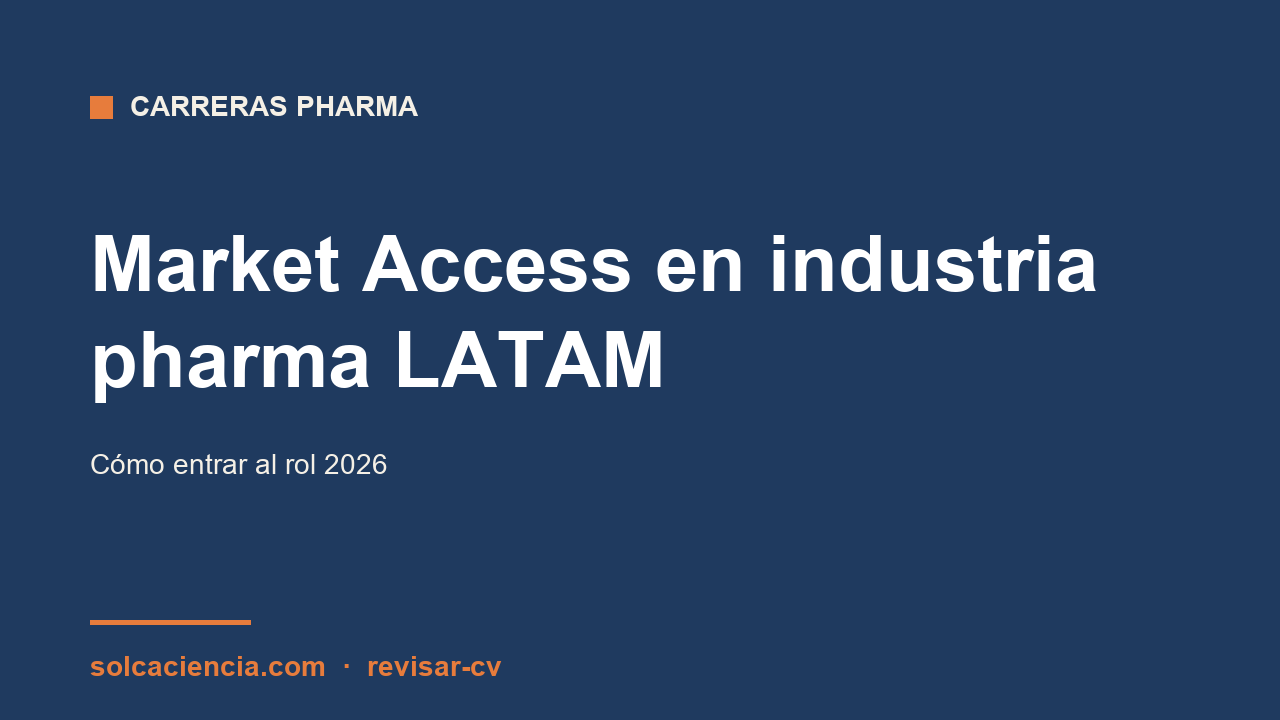
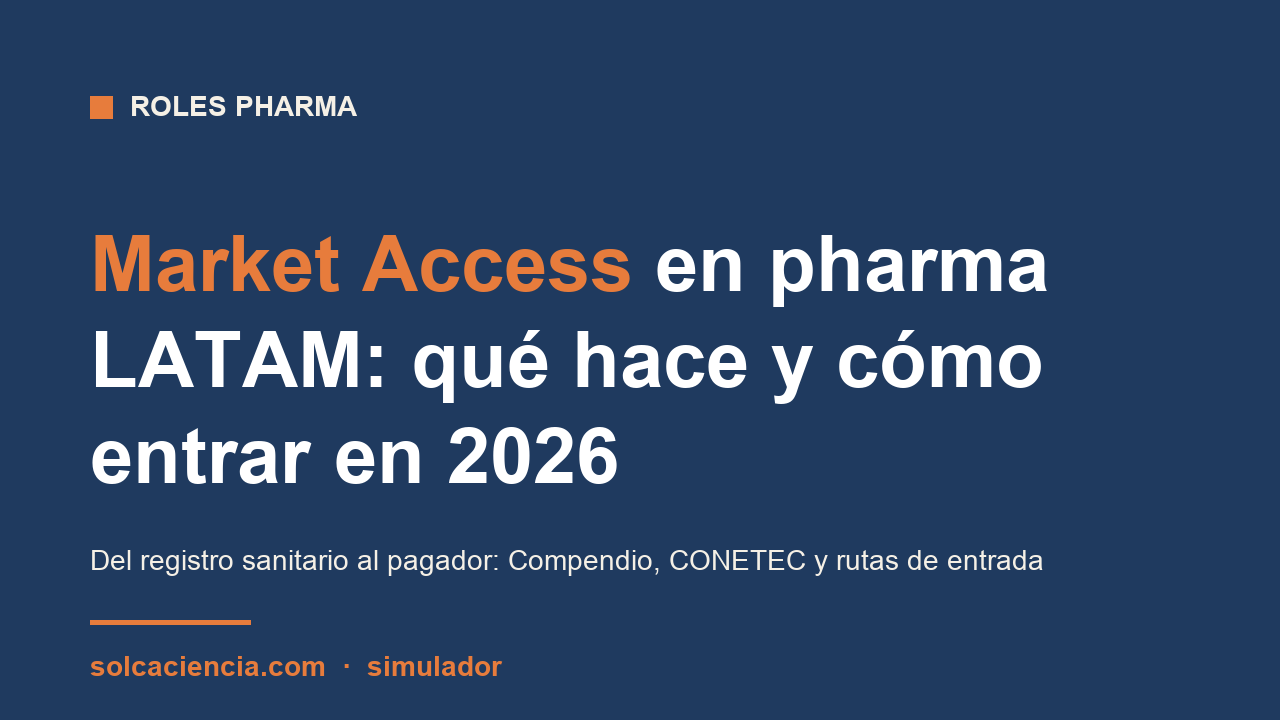
fix(blog): rewrite market access LATAM anclado a GSC, FAQ schema y CTA simulador

diff --git a/src/content/blog/market-access-industria-farmaceutica-latam-como-entrar.md b/src/content/blog/market-access-industria-farmaceutica-latam-como-entrar.md
@@ -1,85 +1,139 @@
 ---
-title: "Market Access en industria farmacéutica LATAM: cómo entrar 2026"
-description: "Qué hace un Market Access en pharma industrial LATAM y cómo entrar al rol desde perfiles clínicos, comerciales o de investigación. Ruta operativa 2026."
+title: "Market Access en pharma LATAM: qué hace y cómo entrar en 2026"
+description: "Market Access en LATAM: qué piden el Compendio en México y la CONETEC en Argentina, desde qué puestos se llega y cómo preparar la entrevista."
 pubDate: 2026-07-13
+updatedDate: 2026-10-05
 heroImage: "/blog/market-access-industria-farmaceutica-latam-como-entrar.png"
 category: "carreras-pharma"
-tags: ["Market Access", "Industria Farmacéutica", "LATAM", "Pagadores", "Carrera Pharma", "KAM Access"]
+tags: ["Market Access", "Industria Farmacéutica", "LATAM", "Evaluación de Tecnologías Sanitarias", "Pagadores", "Entrevistas"]
 series: "roles-pharma"
 seriesIndex: 5
-readingMinutes: 8
+readingMinutes: 7
+cta: "simulador"
 ---
 
-Market Access en industria farmacéutica LATAM es el rol responsable de conseguir que los medicamentos aprobados por la autoridad regulatoria realmente lleguen a los pacientes vía sistemas de salud públicos, aseguradoras privadas y hospitales. Sin acceso conseguido, un registro sanitario aprobado no genera venta. El rol combina componente científico (dossier de valor), componente financiero (pricing, budget impact) y componente político (relación con pagadores institucionales). Esta guía cubre qué hace realmente, qué te piden, y cómo entrar al rol desde perfiles clínicos, comerciales o de investigación.
+> **Respuesta corta.** Market Access (acceso al mercado) es el área de una farmacéutica que consigue que un medicamento aprobado sea financiado por los sistemas de salud. En LATAM eso significa armar la evidencia clínica y económica que piden comisiones como el Compendio Nacional en México o la CONETEC (comisión nacional de evaluación de tecnologías sanitarias) en Argentina, y negociar con quien paga.
+
+Esta guía es para quien estudió o trabaja en ciencias de la salud y ve vacantes de Market Access en LATAM sin saber bien qué hace el puesto. Un registro sanitario de COFEPRIS (la autoridad sanitaria de México) o de ANMAT (la de Argentina) autoriza a vender un medicamento. No obliga a nadie a comprarlo. El tramo entre esa aprobación y el paciente que lo recibe pagado por su sistema de salud es el trabajo de Market Access.
+
+## Qué es Market Access en LATAM: del registro sanitario al pagador
+
+Quien decide si un medicamento se financia es una institución pública, una obra social (el seguro de salud sindical en Argentina) o una aseguradora, no el paciente. México, Argentina y Colombia tienen además un organismo técnico que evalúa antes de esa decisión:
+
+**México.** El Compendio Nacional de Insumos para la Salud es, según sus [Normas de Organización y Funcionamiento publicadas en el Diario Oficial](https://sidof.segob.gob.mx/notas/docFuente/5722808) en marzo de 2024, el documento al que "se ajustarán las instituciones públicas del Sistema Nacional de Salud". Para pedir que un medicamento entre, esas normas exigen un estudio de evaluación económica que incluya una revisión sistemática de la evidencia clínica y un análisis de impacto presupuestal. Los proveedores, es decir, las farmacéuticas, están entre quienes pueden presentar la solicitud.
+
+**Argentina.** La [CONETEC](https://www.argentina.gob.ar/salud/conetec) (Comisión Nacional de Evaluación de Tecnologías Sanitarias y Excelencia Clínica) es un organismo desconcentrado del Ministerio de Salud, creado por el Decreto 344/23. Emite recomendaciones sobre incorporación, desinversión, financiamiento y cobertura de tecnologías sanitarias, con criterios éticos, médicos, económicos y sociales. Sus informes son públicos.
+
+**Colombia.** El [IETS](https://www.iets.org.co/) (Instituto de Evaluación Tecnológica en Salud) produce evaluaciones de tecnologías, evaluaciones económicas y análisis de impacto presupuestal para apoyar las decisiones del sistema de seguridad social en salud.
+
+El patrón se repite: el pagador pide evidencia de que el medicamento funciona, de cuánto cuesta frente a la alternativa y de cuánto pesa en su presupuesto. Market Access es quien la arma, la presenta y la defiende. A esa evaluación se le llama HTA (Health Technology Assessment, evaluación de tecnologías sanitarias).
 
 ## Qué hace Market Access en el día a día
 
-El trabajo se organiza en cinco tipos de actividad recurrente.
+El trabajo se ordena en cuatro bloques.
 
-**Estrategia de acceso.** Antes del lanzamiento de un producto, Market Access diseña la estrategia de introducción a los sistemas de salud del país. Identifica cuáles pagadores institucionales (en México: IMSS, ISSSTE, INSABI en su momento y hoy Compendio Nacional de Insumos para la Salud; en Argentina: PAMI, obras sociales; en Chile: FONASA; en Colombia: sistema con EPS) y privados (aseguradoras, cadenas de farmacia) son críticos para la venta del producto.
+**Estrategia de acceso.** Antes del lanzamiento, define a qué pagadores entrar primero, con qué indicación y con qué precio. En México eso pasa por el Compendio. En Argentina, por lo que recomiende la CONETEC y por cada financiador.
 
-**Construcción del dossier de valor.** Coordinación con HEOR, Medical Affairs y Regulatory para producir el dossier que sustenta el valor clínico y económico del producto ante pagadores. Incluye estudios de costo-efectividad, budget impact, comparación con estándar de atención actual y evidencia clínica de eficacia y seguridad.
+**Dossier de valor.** Es el expediente que sostiene la solicitud. Junta la evidencia clínica, el modelo de costo-efectividad (cuánto cuesta cada resultado en salud frente al tratamiento actual) y el impacto presupuestal (cuánto gasta el pagador en los próximos años si lo incluye). Lo construye con HEOR (Health Economics and Outcomes Research, el equipo que hace los modelos económicos), Medical Affairs y Regulatory. Lo que piden las normas del Compendio coincide con esos componentes.
 
-**Negociación con pagadores.** Reuniones con Directores Médicos de aseguradoras, con comités de compras de instituciones públicas, con Compendio Nacional de Insumos para la Salud en México, con comisiones de evaluación de tecnologías sanitarias (HTA) donde existen. El objetivo es incluir el producto en el listado (formulario) del pagador y negociar condiciones comerciales.
+**Negociación con pagadores.** Reuniones con comités institucionales, directores médicos de aseguradoras y equipos de compras. El objetivo es la inclusión en el listado del pagador y las condiciones comerciales.
 
-**Gestión de licitaciones y tenders.** En LATAM, gran parte de la venta de medicamentos innovadores pasa por licitaciones públicas o tenders institucionales. Market Access prepara la documentación, coordina precio final con Sales, y da seguimiento a la ejecución del contrato.
+**Coordinación interna.** Market Access traduce lo que pide el pagador al resto de la compañía: a Ventas, a Medical Affairs y al equipo regional o global que produjo el dossier original, que hay que adaptar al país.
 
-**Coordinación con Key Account Managers (KAM) de Access**. Muchas farmacéuticas top tienen KAM específicos para cuentas críticas de acceso. Market Access los coordina, da soporte técnico, y participa en visitas de alto nivel a Directores Médicos institucionales.
+## Qué habilidades pide Market Access y desde qué puestos se llega
 
-Es rol con horizonte largo (los procesos toman meses o años), gran componente político y relacional, y peso alto en resultados de venta.
+Lo que tiene que saber hacer quien ocupa el puesto se lee en lo que piden los pagadores:
 
-## Perfil pedido
+- **Leer evidencia clínica con criterio.** Una revisión sistemática es requisito literal del Compendio.
+- **Entender un modelo económico.** No hace falta construirlo desde cero, pero sí explicar qué supone, qué compara y qué pasa si cambia una variable.
+- **Conocer el sistema de salud del país.** Quién paga, quién evalúa y cómo se decide.
+- **Escribir y presentar en español e inglés.** En una compañía global, el dossier de origen puede venir en inglés; la defensa ante el pagador es local.
 
-**Formación.** Ciencias de la salud (Medicina, QFB, Farmacia, Biología) O administración con especialización en salud O economía de la salud. En LATAM la ruta más frecuente es ciencias de la salud con MBA o especialización posterior. Directores de Market Access con formación en administración pura sin componente de salud son menos frecuentes.
+Por eso Market Access se piensa como segundo paso: cada habilidad de esa lista se aprende primero en otro rol. Las rutas laterales que se desprenden de ella son estas.
 
-**Experiencia previa.** Ideal 5-8 años en industria pharma con exposición a estrategia comercial, HEOR, Regulatory o Medical Affairs. Roles junior de Access son raros; la entrada frecuente es lateral desde otros roles pharma con 3-5 años de experiencia. No hay puerta clara "de recién egresado" a Market Access.
+**Desde HEOR.** Ya construye la parte económica del dossier. Le falta la negociación y el contacto con el pagador. El blog de [HEOR en pharma LATAM](https://solcaciencia.com/blog/heor-carrera-latam-perfil-emergente-2026/) cubre cómo se entra ahí.
 
-**Inglés.** Avanzado (C1). El componente de coordinación regional o global es significativo. Muchos dossieres de valor globales vienen en inglés y se adaptan localmente. Reuniones con headquarters son en inglés.
+**Desde Medical Affairs.** Domina la evidencia clínica y el área terapéutica. Le falta el lado económico.
 
-**Habilidades clave.** Comodidad con datos financieros y análisis costo-efectividad, capacidad de negociación con contrapartes senior, comprensión profunda del sistema de salud del país, redacción técnica en español e inglés, presentación ejecutiva.
+**Desde Marketing farmacéutico.** Conoce el producto y la estrategia comercial. Le falta el rigor de la evidencia y el sistema de evaluación.
 
-## Salario referencia LATAM
+**Desde Regulatory Affairs.** Conoce el trato con autoridades y el armado de expedientes. El perfil de [Regulatory Affairs con COFEPRIS](https://solcaciencia.com/blog/regulatory-affairs-cofepris-perfil-real-declarado/) muestra esa base.
 
-No hay banda salarial pública verificable con desglose 2025-2026 sin descarga con formulario en las principales guías. Como referencia orientativa: Market Access Manager en México es uno de los roles pharma con salario más alto en el segmento medio (por encima de MSL y CRA de mismo seniority, alineado con Marketing Manager). Directores de Market Access en compañías top están en segmento alto ejecutivo.
+**Desde consultoría en salud o desde el sector público.** Las consultoras que elaboran evaluaciones económicas y quien trabajó en una agencia de evaluación conocen el proceso desde el otro lado de la mesa.
 
-El mercado se está tensionando. Según análisis sectorial (AdQualis Human Results, 2025-10), Market Access, Pricing y HEOR concentran la mayor tensión de talento en pharma, con escasez estructural de perfiles mid-level (Manager, Associate Director) y competencia intensa por especialistas en oncología e inmunología ([enlace al análisis](https://www.adqualis.com/market-access-pricing-y-heor-las-areas-del-sector-farmaceutico-donde-escasea-el-talento-clave/)). Esa escasez presiona salarios al alza y crea oportunidad para candidatos que se preparan específicamente.
+Si todavía no decides entre estas áreas, la comparación de [MSL, CRA, PM y HEOR](https://solcaciencia.com/blog/msl-cra-pm-heor-diferencia-rol-pharma/) ubica las diferencias entre esos cuatro roles.
 
-## Rutas de entrada más viables
+## Cómo preparar una entrevista de Market Access
 
-Cinco puertas ordenadas por frecuencia real.
+Las preguntas exactas dependen de cada compañía y de cada vacante. Lo que se puede preparar con certeza es el material que el puesto maneja todos los días. Tres ejercicios:
 
-**Puerta uno · Desde HEOR o Medical Affairs interno**. Perfiles con 3-5 años en HEOR o Medical Affairs con exposición a construcción de dossiers de valor pueden moverse a Access con el mismo salario o ligeramente superior. Es la ruta lateral más común.
+**Lee un informe público de evaluación.** La CONETEC publica los suyos. Elige uno de un área terapéutica que conozcas y resúmelo en voz alta en dos minutos: qué se evaluó, contra qué alternativa, qué concluyó y por qué. Si puedes hacer eso, puedes hablar de HTA en una entrevista sin repetir definiciones.
 
-**Puerta dos · Desde Marketing / Product Management**. Perfiles con 3-5 años en Marketing farmacéutico que conocen bien un área terapéutica y quieren especializarse en pagadores. La ruta requiere estudiar el sistema de salud a fondo si el candidato no lo hizo antes.
+**Explica un impacto presupuestal sin números inventados.** Practica decir qué variables entran (población elegible, precio, tratamiento que se desplaza, horizonte de años) y qué pregunta responde para el pagador. Es el lenguaje del impacto presupuestal que exige el Compendio.
 
-**Puerta tres · Desde Regulatory Affairs senior**. Menos frecuente pero real. Regulatory Affairs con exposición a autoridades locales y con años de experiencia tiene familiaridad con procesos institucionales que Access aprovecha. Suele requerir capacitación adicional en pricing y HEOR.
+**Traduce tu experiencia al vocabulario del área.** Si vienes de HEOR, tu historia es la de un modelo que alguien usó para decidir. Si vienes de Medical Affairs, la de evidencia que presentaste a alguien que no era médico. Si vienes de Marketing, la de una estrategia que tuvo que justificar su costo. Arma cada historia con el [método STAR](https://solcaciencia.com/blog/metodo-star-entrevistas-pharma/) (Situación, Tarea, Acción, Resultado) y ensáyala en voz alta antes del día.
 
-**Puerta cuatro · Desde consultoría en salud**. Consultoras especializadas en acceso al mercado (IQVIA Consulting, Everis Salud, Ipsos Health, empresas de HTA) forman perfiles Access que luego pasan a industria. Ruta de dos a cuatro años que construye vocabulario Access rápido.
+Si la vacante está en Argentina, revisa además cómo se lee la oferta salarial en pesos y en dólares en [sueldos pharma en Argentina 2026](https://solcaciencia.com/blog/sueldos-pharma-argentina-pesos-dolares-2026/) antes de llegar a la conversación de compensación.
 
-**Puerta cinco · Desde autoridades sanitarias o pagador institucional**. Ex-funcionarios de COFEPRIS, IMSS, Ministerio de Salud o aseguradoras top con años de experiencia son perfiles altamente valorados por industria pharma. La ruta invertida (autoridad → industria) es infrecuente pero rinde salarios ejecutivos altos por conocimiento inside del sistema.
+## Preguntas frecuentes sobre Market Access en LATAM
 
-## Cómo saber si Market Access se ajusta a tu perfil
+### ¿Qué es Market Access en la industria farmacéutica?
 
-Cinco chequeos.
+Es el área que consigue que un medicamento aprobado sea financiado por los sistemas de salud. Arma la evidencia clínica y económica que pide cada pagador y negocia la inclusión del medicamento en su listado.
 
-Uno, **cinco años de experiencia previa en industria pharma o consultoría de salud**. Sin ese piso, aplicar a roles Access rinde poco. Trabajar primero en HEOR, Medical Affairs, Marketing o Regulatory por dos a tres años.
+### ¿Qué diferencia hay entre Market Access y HEOR?
 
-Dos, **comodidad con datos financieros y modelos económicos**. Si trabajar con Excel avanzado, análisis de sensibilidad y presupuestos multianuales te desgasta, el rol no es realista.
+HEOR construye los modelos económicos y la evidencia de resultados en salud. Market Access usa esa evidencia para conseguir el financiamiento: define la estrategia, presenta el dossier y negocia con el pagador.
 
-Tres, **capacidad de negociación con contrapartes senior**. Directores Médicos de aseguradoras, líderes de licitación institucional, comités de evaluación. Sin comodidad ante ese tipo de audiencia, el rol pierde efectividad.
+### ¿Qué pide México para incluir un medicamento en el Compendio Nacional?
 
-Cuatro, **inglés C1 conversacional**. Sin fluidez avanzada, coordinación con regionales o globales se dificulta.
+Según las Normas de Organización y Funcionamiento de la Comisión del Compendio, la solicitud lleva un estudio de evaluación económica que incluye una revisión sistemática de la evidencia clínica y un análisis de impacto presupuestal.
 
-Cinco, **conocimiento profundo del sistema de salud de tu país**. Sin ese conocimiento como piso, la conversación con pagadores no arranca desde el primer día.
+### ¿Se puede entrar a Market Access sin experiencia en la industria?
 
-## Un dato de contexto reciente
+Es difícil, porque cada habilidad del puesto se aprende antes en otro rol. Las rutas que se desprenden del contenido del trabajo son laterales: desde HEOR, Medical Affairs, Marketing, Regulatory, consultoría en salud o una agencia pública de evaluación.
 
-México anunció en mayo 2026 inversión de MXN 21 mil millones en siete proyectos productivos farmacéuticos bajo Plan México, incluyendo Abbott con 1.200 empleos directos hacia 2030 ([Milenio](https://www.milenio.com/negocios/industria-farmaceutica-invertira-miles-millones-pesos-mexico)). Esa inversión reactiva presión sobre equipos comerciales, incluyendo Market Access. Un candidato que empiece hoy la ruta de preparación con timing correcto puede posicionarse para las contrataciones ejecutivas de 2027-2028.
-
-## Resumen operativo
-
-Market Access en industria farmacéutica LATAM requiere formación en ciencias de la salud o administración con especialización en salud, 5-8 años de experiencia previa en industria, inglés C1, comodidad con datos financieros y análisis costo-efectividad, y capacidad de negociación con contrapartes senior. La entrada más común es lateral desde HEOR, Medical Affairs o Marketing después de 3-5 años en ese rol previo. El mercado LATAM presenta escasez estructural de perfiles mid-level, lo que crea oportunidad para candidatos que se preparan específicamente. México acaba de anunciar inversión de MXN 21 mil millones que sostiene presión sobre equipos comerciales pharma en el mediano plazo.
+<script type="application/ld+json">
+{
+  "@context": "https://schema.org",
+  "@type": "FAQPage",
+  "mainEntity": [
+    {
+      "@type": "Question",
+      "name": "¿Qué es Market Access en la industria farmacéutica?",
+      "acceptedAnswer": {
+        "@type": "Answer",
+        "text": "Es el área que consigue que un medicamento aprobado sea financiado por los sistemas de salud. Arma la evidencia clínica y económica que pide cada pagador y negocia la inclusión del medicamento en su listado."
+      }
+    },
+    {
+      "@type": "Question",
+      "name": "¿Qué diferencia hay entre Market Access y HEOR?",
+      "acceptedAnswer": {
+        "@type": "Answer",
+        "text": "HEOR construye los modelos económicos y la evidencia de resultados en salud. Market Access usa esa evidencia para conseguir el financiamiento: define la estrategia, presenta el dossier y negocia con el pagador."
+      }
+    },
+    {
+      "@type": "Question",
+      "name": "¿Qué pide México para incluir un medicamento en el Compendio Nacional?",
+      "acceptedAnswer": {
+        "@type": "Answer",
+        "text": "Según las Normas de Organización y Funcionamiento de la Comisión del Compendio, la solicitud lleva un estudio de evaluación económica que incluye una revisión sistemática de la evidencia clínica y un análisis de impacto presupuestal."
+      }
+    },
+    {
+      "@type": "Question",
+      "name": "¿Se puede entrar a Market Access sin experiencia en la industria?",
+      "acceptedAnswer": {
+        "@type": "Answer",
+        "text": "Es difícil, porque cada habilidad del puesto se aprende antes en otro rol. Las rutas que se desprenden del contenido del trabajo son laterales: desde HEOR, Medical Affairs, Marketing, Regulatory, consultoría en salud o una agencia pública de evaluación."
+      }
+    }
+  ]
+}
+</script>
 
 ---
 
-**¿Tu CV traduce tu experiencia al vocabulario que Market Access usa?** La herramienta de Solca revisa tu CV en menos de un minuto y devuelve diagnóstico por sección. [Pruébala en solcaciencia.com/revisar-cv](https://solcaciencia.com/revisar-cv).
+**Ensaya la primera llamada antes de la real.** El [Simulador de Entrevistas Solca](https://solcaciencia.com/simulador-entrevistas/?utm_source=blog&utm_medium=post&utm_campaign=market-access-latam#planes) toma tu CV y el título de la vacante a la que apuntas y te hace la llamada inicial con reclutador: 5 preguntas de screening, con reporte PDF a tu email al terminar. La primera sesión es gratis y no pide tarjeta. [Empieza aquí](https://solcaciencia.com/simulador-entrevistas/?utm_source=blog&utm_medium=post&utm_campaign=market-access-latam#planes).

diff --git a/_docs/BLOG_BACKLOG.md b/_docs/BLOG_BACKLOG.md
@@ -17,7 +17,6 @@ _Refrescado 14 sep 2026 (tarde)._ **Nuevo eje editorial: CTA principal → simul
 
 | # | Fecha objetivo | Origen | Keyword primary tentativa | Slug propuesto | Cluster | CTA |
 |---|---|---|---|---|---|---|
-| 0 | Lun 5 oct 2026 (slot de fix, sin pubDate nuevo) | **Fix P1 → slot de la semana, decidido por Oscar 28 sep 2026.** GSC ventana 27 jun → 25 sep 2026: "market access latam" 66 imp / 0 clicks (query sin clicks más fuerte); la página es #2 en `fixes_pagina` (147 imp, 2 clicks, CTR 1.36%, pos 15.79) | market access latam | `/blog/market-access-industria-farmaceutica-latam-como-entrar/` (rewrite, **no crear slug nuevo**) | fix · market access | simulador |
 | 5 | Vie 6 nov 2026 | GSC vertical ganador salarios + hueco PM clínico | salario project manager pharma latam | salario-project-manager-clinico-pharma-latam-2026 | B (salarios) | simulador |
 | 6 | Vie 13 nov 2026 | feedback 4c48cd1d (dolor: "respuesta vaga" vs "tesis") | detalle respuesta entrevista pharma | cuanto-detalle-dar-respuestas-entrevista-pharma | F (comunicación) | simulador |
 | 7 | Vie 20 nov 2026 | intent hiring manager pharma + baja natural a Básico | entrevista hiring manager pharma preguntas | entrevista-hiring-manager-pharma-ocho-preguntas | D (etapa) | simulador |
@@ -74,7 +73,7 @@ Estos son ediciones a piezas ya publicadas. Se pueden agendar como items del sch
 | Prioridad | URL actual | Diagnóstico GSC | Acción |
 |---|---|---|---|
 | **P0** | `/blog/metodo-star-entrevistas-pharma` | 194 imp, 1 click, CTR 0.52%, pos 7.04 | Rewrite title/meta/TL;DR/H2 anclados a queries "star respuestas", "respuesta star", "que es el metodo star"; FAQ schema; CTA simulador |
-| P1 | `/blog/market-access-industria-farmaceutica-latam-como-entrar/` | 133 imp, 2 clicks, CTR 1.5%, pos 16.09 · query "market access latam" 58 imp / 0 clicks (ventana GSC 20 jun → 18 sep 2026) | Rewrite title/meta/TL;DR anclados a "market access latam" para subir de pos 16; FAQ schema; CTA simulador. Es la query sin clicks más fuerte de la ventana. **No crear post nuevo con esa keyword**: la página está en `ganadoras` y se canibalizaría. Agregado 28 sep 2026 (aprobado por Oscar). |
+| P1 · **DRAFTEADO 5 oct 2026** (en review, pendiente build + deploy) | `/blog/market-access-industria-farmaceutica-latam-como-entrar/` | 133 imp, 2 clicks, CTR 1.5%, pos 16.09 · query "market access latam" 58 imp / 0 clicks (ventana GSC 20 jun → 18 sep 2026) | Rewrite title/meta/TL;DR anclados a "market access latam" para subir de pos 16; FAQ schema; CTA simulador. Es la query sin clicks más fuerte de la ventana. **No crear post nuevo con esa keyword**: la página está en `ganadoras` y se canibalizaría. Agregado 28 sep 2026 (aprobado por Oscar). |
 | P1 | `/blog/cro-vs-big-pharma-vs-farma-local-primer-rol/` | 95 imp, 0 clicks | Rewrite title + TL;DR comparativo + tabla scannable + FAQ schema + CTA simulador |
 | P1 | `/blog/como-ser-cra-en-mexico-perfil-formacion-ruta/` | 52 imp, 0 clicks (con slash) | Igual + resolver duplicado con/sin slash |
 | P1 | `/blog/farmacovigilancia-mexico-empezar-sin-experiencia/` | 30 imp, 0 clicks (con slash) | Igual + resolver duplicado (versión sin slash tiene 1 click) |
@@ -109,6 +108,7 @@ Estos son ediciones a piezas ya publicadas. Se pueden agendar como items del sch
 
 | Slug | Título final | Draft | pubDate | Fuente |
 |---|---|---|---|---|
+| market-access-industria-farmaceutica-latam-como-entrar (fix P1, rewrite) | "Market Access en pharma LATAM: qué hace y cómo entrar en 2026" | Lun 5 oct 2026 (edit) | 2026-07-13 · updatedDate 2026-10-05 | Backlog item #0 (decidido por Oscar 28 sep) · GSC "market access latam" 81 imp / 0 clicks (ventana 4 jul → 2 oct 2026) |
 | metodo-star-entrevista-msl-cinco-ejemplos | "Método STAR en entrevista MSL: cinco ejemplos de respuesta" | Lun 28 sep 2026 | Vie 16 oct 2026 | Backlog item #4 · GSC "star respuestas"/"respuesta star" (ventana 20 jun → 18 sep 2026) |
 | preguntas-entrevista-tecnica-cra-ich-gcp-e6-r3 | "Preguntas de entrevista técnica CRA sobre ICH GCP E6(R3)" | Lun 21 sep 2026 | Vie 9 oct 2026 | Backlog item #2 · GSC "¿qué innovación ich gcp e6(r3)?" + entry cra |
 | metodo-star-entrevistas-pharma (fix P0) | "Método STAR en entrevistas pharma: qué significa y cómo aplicarlo" | Lun 14 sep 2026 (edit) | 2026-06-24 · updatedDate 2026-09-14 | Fix P0 corpus existente (GSC 194 imp / 1 click) |
@@ -123,6 +123,23 @@ Estos son ediciones a piezas ya publicadas. Se pueden agendar como items del sch
 | cro-latam-entry-level-icon-iqvia-que-piden-en-realidad | "Trabajar en un CRO en LATAM sin experiencia: por dónde entrar" | Lun 10 ago 2026 | Vie 21 ago 2026 | Mié 13 ago · Serie #3 |
 | calidad-regulatorio-practicas-entry-level-pharma-latam | "Calidad, regulatorio y prácticas: entrar a pharma LATAM" | Lun 17 ago 2026 | Vie 28 ago 2026 | Mié 20 ago · Serie #4 |
 | vacantes-pharma-piden-cinco-anos-experiencia-aplicar | "Vacantes pharma que piden 5 años: cuándo aplicar y cuándo no" | Lun 31 ago 2026 | Vie 4 sep 2026 | Mié 30 jul · Serie #1 (comodín) |
+
+Nota (5 oct 2026): item #0 del backlog (fix P1 aprobado por Oscar el 28 sep), rewrite in place de `/blog/market-access-industria-farmaceutica-latam-como-entrar/`, sin slug nuevo. Sprint LinkedIn no aplica. **Señales GSC usadas:** `GSC_SIGNALS_LATEST.json`, ventana **4 jul → 2 oct 2026** (90 días, generado 5 oct; fresco). `queries_analizadas` = 128, lejos del tope de 1000: los conteos son totales de la ventana, no piso. Decisiones tomadas sin consultar:
+
+1. **Reconciliación con señales vivas: se respetó el item #0.** "market access latam" sigue siendo la query sin clicks más fuerte (81 imp, 0 clicks, pos 8.3; más "market access pharma américa latina" 15 imp pos 84 y "acceso al mercado farmacéutico" 6 imp pos 38.5). La página quedó #2 en `fixes_pagina` (168 imp, 2 clicks, CTR 1.19%, pos 15.29). El #1 sigue siendo el P0 STAR (`/blog/metodo-star-entrevistas-pharma`, 188 imp, 1 click, CTR 0.53%, pos 7.15), pero ya se reescribió el 14 sep y la ventana solo cubre ~18 días post-rewrite; no supera al item #0 que Oscar eligió. **Reevaluar el STAR con la ventana de noviembre**: si sigue con CTR <1% tras 6 semanas, el rewrite del 14 sep no funcionó. Señal secundaria: `/blog/como-ser-cra-en-mexico-perfil-formacion-ruta/` subió a 166 imp / 1 click (pos 5.86) — candidato a próximo fix.
+2. **pubDate intacto (2026-07-13), `updatedDate: 2026-10-05`.** No hay fecha futura: la página sigue en producción y el cambio aparece en cuanto se haga deploy.
+3. **Antifabricación sobre el texto viejo.** Se eliminaron: "5-8 años"/"3-5 años" de experiencia, "ruta más frecuente", "cinco puertas ordenadas por frecuencia real", la comparación salarial ("por encima de MSL y CRA"), el análisis de AdQualis (fuente de headhunter con afirmaciones de mercado) y el dato de inversión de Milenio con la proyección de contrataciones 2027-2028, más "INSABI" y el "Resumen operativo" (regla 14). La sección de salario se retiró completa: el item #12 (salario market access) puede ocuparla sin competir.
+4. **Ángulo nuevo, todo con fuente primaria:** qué piden los pagadores públicos para financiar un medicamento (Normas del Compendio Nacional en DOF, CONETEC Argentina, IETS Colombia) y, de ahí, qué habilidades exige el puesto y desde qué roles se llega (etiquetado como lectura del contenido del trabajo, no como conteo de contrataciones). Ancla Argentina (país #1 por clicks: 29 clicks / CTR 4.23% vs México 20 / 2.08% en la ventana) vía CONETEC, sin forzar más.
+5. **Sección de entrevista breve (tres ejercicios), no lista de preguntas**, para no canibalizar el item #23 (preguntas entrevista market access HTA).
+6. **CTA `simulador`** en frontmatter, body y PNG. Market Access no es rol propio en `ROLE_KEYWORDS` (cae a `Other`), así que el CTA no promete un módulo de Market Access: ofrece la llamada inicial con reclutador (5 preguntas, freemium, sin tarjeta) con el título de la vacante. UTM en el CTA con la convención del corpus: `utm_source=blog&utm_medium=post&utm_campaign=market-access-latam`. Tags actualizados (fuera "KAM Access" y "Carrera Pharma"; entran "Evaluación de Tecnologías Sanitarias" y "Entrevistas"). Cover regenerado con kicker "ROLES PHARMA" (coincide con `series: roles-pharma`) y footer simulador.
+
+Fuentes externas verificadas abriendo la URL: [Normas de Organización y Funcionamiento de la Comisión del Compendio Nacional de Insumos para la Salud (SIDOF, 27 mar 2024)](https://sidof.segob.gob.mx/notas/docFuente/5722808) (definición literal del Compendio "al que se ajustarán las instituciones públicas del Sistema Nacional de Salud"; la solicitud lleva estudio de evaluación económica con revisión sistemática e impacto presupuestal; los proveedores pueden solicitar), [CONETEC](https://www.argentina.gob.ar/salud/conetec) (organismo desconcentrado, Decreto 344/23, alcance y criterios literales, informes públicos) e [IETS](https://www.iets.org.co/). **Trampa evitada:** un resumen de buscador decía que el plazo de dictamen pasó de 60 a 80 días hábiles; las Normas dicen 60. No se citó ningún plazo. La Guía de Evaluación de Insumos (PDF de gob.mx) no se pudo extraer en esta sesión y no se usó.
+
+Links internos (5): `heor-carrera-latam-perfil-emergente-2026`, `regulatory-affairs-cofepris-perfil-real-declarado`, `msl-cra-pm-heor-diferencia-rol-pharma`, `metodo-star-entrevistas-pharma`, `sueldos-pharma-argentina-pesos-dolares-2026` — todos trackeados en git, pubDate anterior a hoy, URL absoluta con slash. Verificados contra el repo, no en producción.
+
+Agente revisor (regla 15) ejecutado: VEREDICTO OK, 0 bloqueos, 5 observaciones corregidas (CONETEC sin desarrollar en el TL;DR; frase "no hay dataset público…" que afirmaba sin fuente y restaba autoridad; H2 "Qué piden…" que prometía requisitos de vacantes → "Qué habilidades pide Market Access y desde qué puestos se llega"; precisión del Compendio: revisión sistemática e impacto presupuestal son parte del estudio de evaluación económica, no tres requisitos aparte; "obra social" sin explicar, description recortada a 141 y anchor de la comparación de roles acotado). Después, skill `solca-editorial-reviewer`: VEREDICTO OK tras dos ajustes (UTM en el CTA; titular del CTA cambiado de "Ensaya tu entrevista de Market Access" a "Ensaya la primera llamada" porque el simulador no tiene módulo de Market Access). Cuerpo final: **~1,120 palabras** sin FAQ ni CTA. Title 61 chars, description 141, TL;DR 60 palabras, 4 H2 + FAQ de 4 preguntas con JSON-LD `FAQPage` idéntico al texto visible (verificado por script). Frontmatter validado a mano contra `src/content.config.ts`; `npm run build` pendiente en la máquina de Oscar.
+
+**Limitaciones de este run:** autocomplete y PAA no consultados (no accesibles en sesión agendada). Links internos no abiertos en producción.
 
 Nota (28 sep 2026): item #4 del backlog vigente (14 sep). Sprint LinkedIn no aplica (la columna "Origen" no menciona Insight ni Serie). **Señales GSC usadas:** `GSC_SIGNALS_LATEST.json`, ventana **20 jun → 18 sep 2026** (90 días, generado 21 sep; 10 días de antigüedad al correr, dentro del umbral de 14). `queries_analizadas` = 96, lejos del tope de 1000: los conteos son totales de la ventana, no piso. Desviaciones y decisiones tomadas sin consultar:
 
